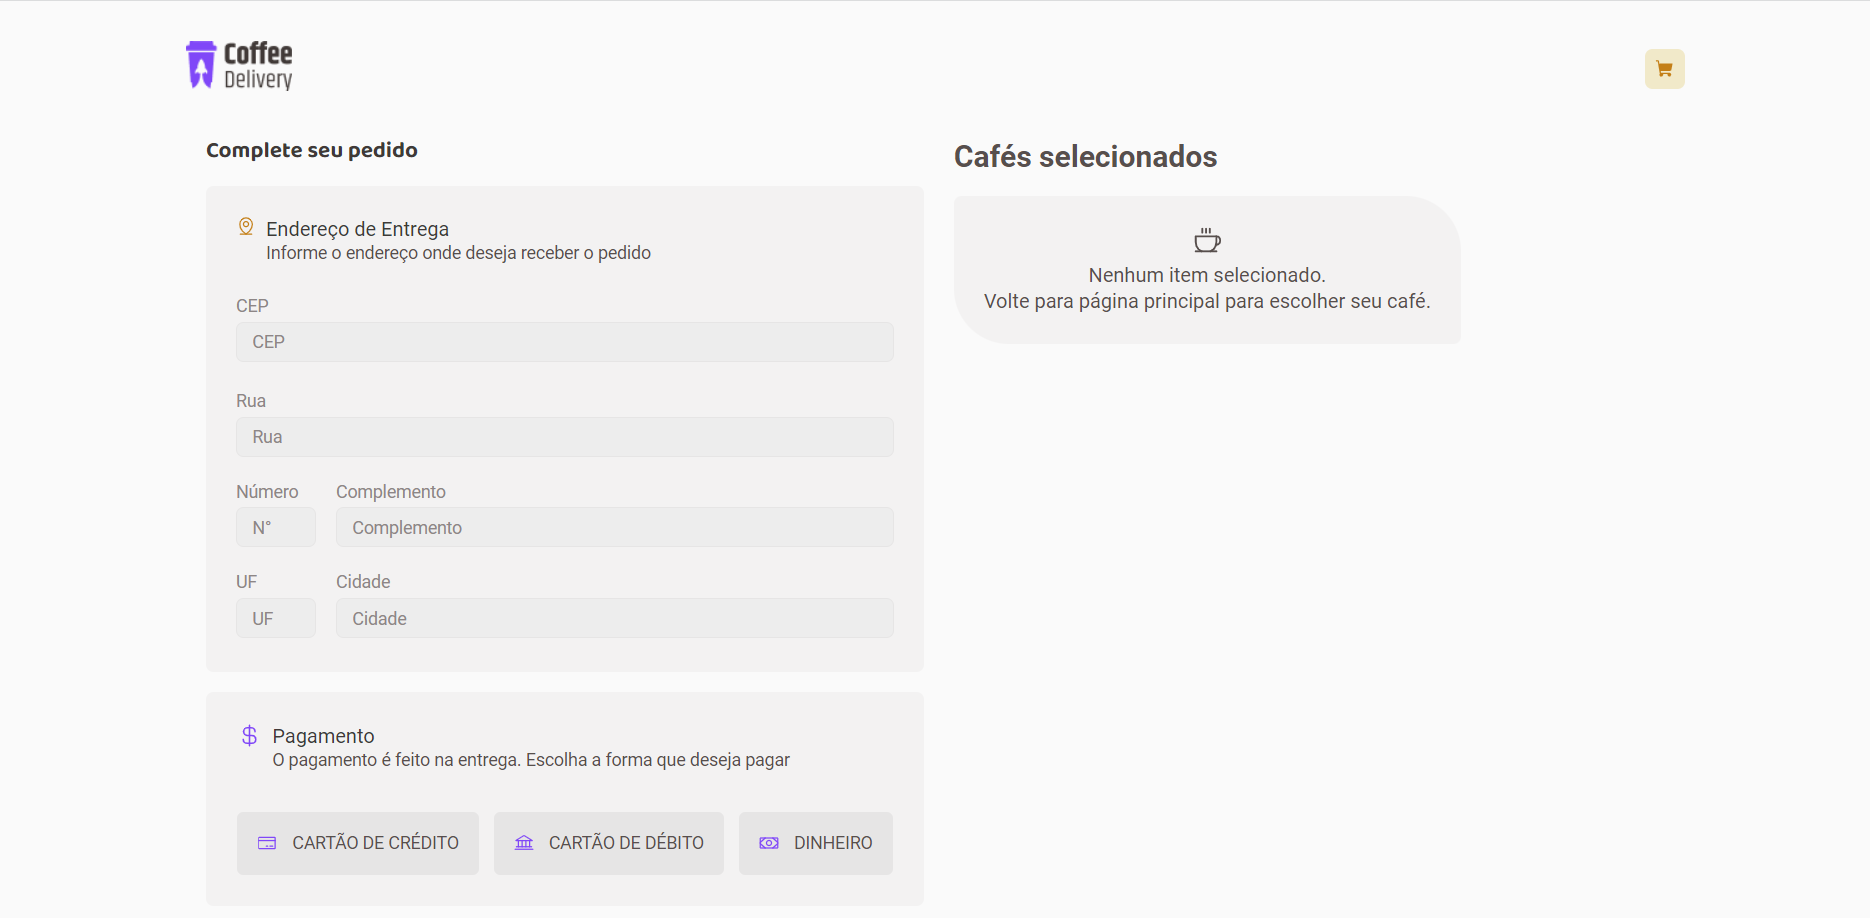
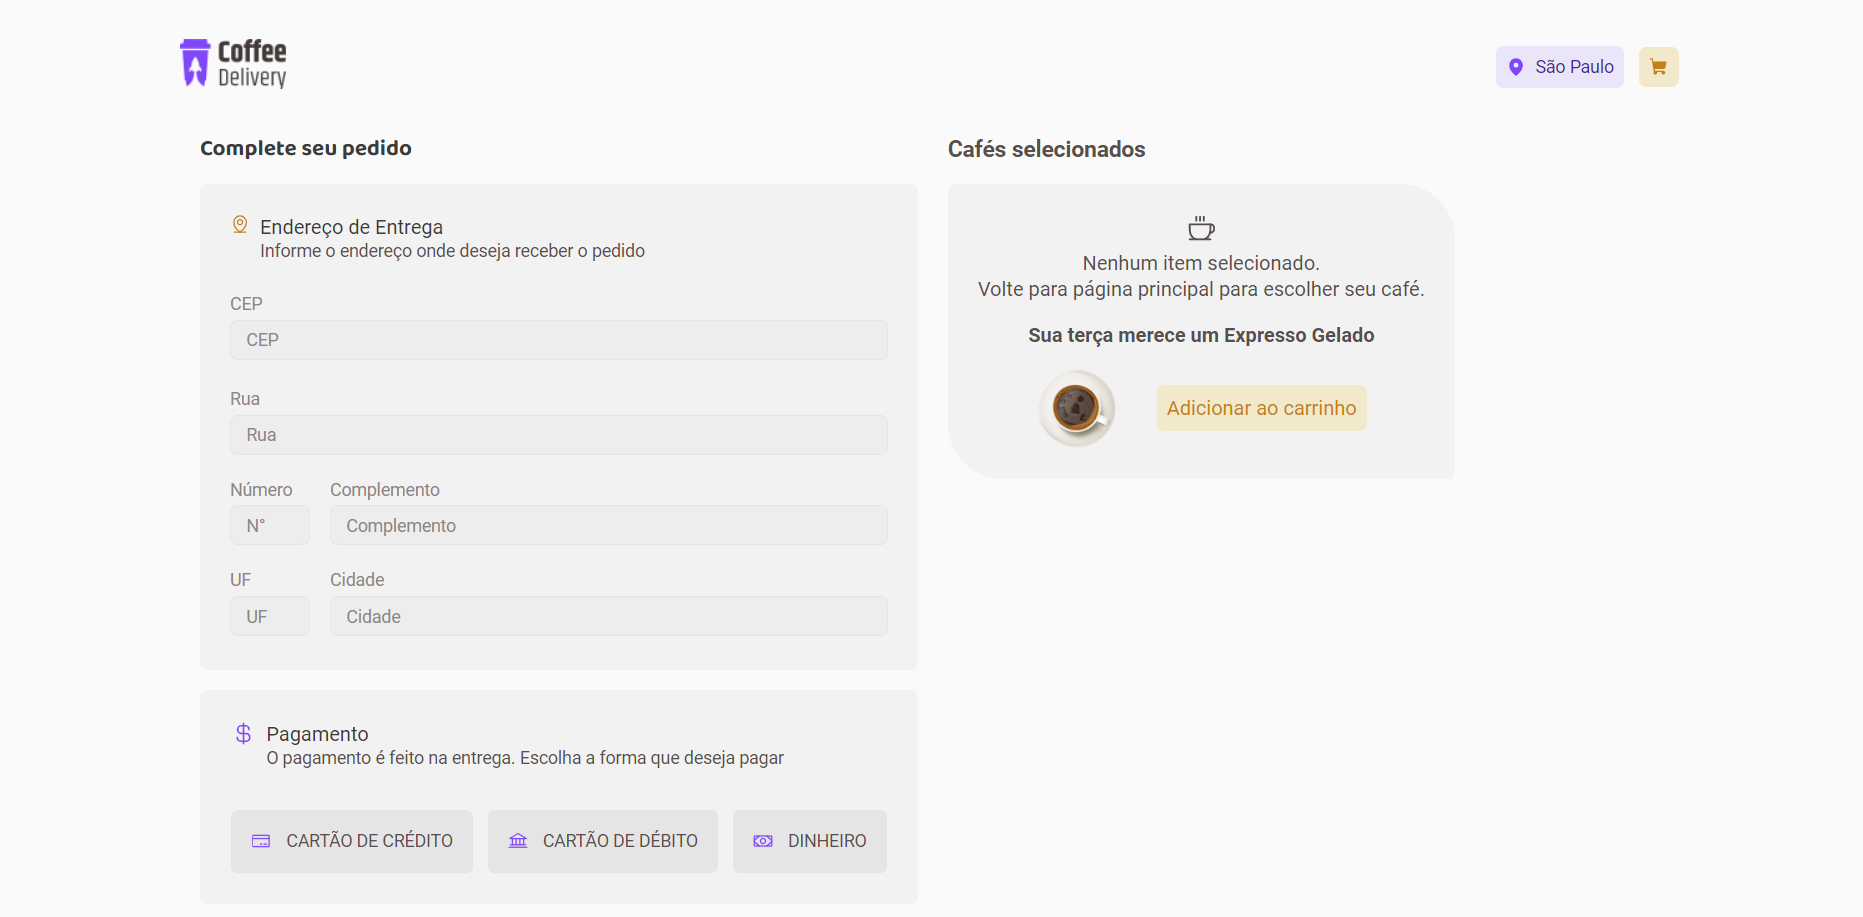
readme

diff --git a/src/components/Header/index.tsx b/src/components/Header/index.tsx
@@ -1,32 +1,42 @@
 import { CartIcon, CartNav, CartNavContainer, HeaderContainer, IconsContainer, LocationContainer, MapIcon, OrderAmountContainer } from './style'
 
 import Logo from '../../assets/logo.png'
+import HalloweenLogo from '../../assets/logo-halloween.png'
 import { NavLink } from 'react-router-dom'
-import { useContext } from 'react'
+import { Suspense, useContext } from 'react'
 import { CoffeeOrderContext } from '../../context/CoffeeOrderContext';
 
 import croct from '@croct/plug';
-import { useEvaluation } from '@croct/plug-react';
+import { Personalization, useEvaluation } from '@croct/plug-react';
 
-croct.plug({appId: '00000000-0000-0000-0000-000000000000'});
+croct.plug({ appId: '00000000-0000-0000-0000-000000000000' });
 
 interface HeaderProps {
     hiddenCart?: boolean;
 }
 
 export function Header({ hiddenCart }: HeaderProps) {
-    const location = useEvaluation<string>("location's city");
-    
+    const location = useEvaluation<string | null>("location's city");
+
     const { orderQuantity, showOrderQuantity } = useContext(CoffeeOrderContext);
- 
-    return(
+
+    return (
         <HeaderContainer>
-            <NavLink to='/' title='Home'>
-                <img src={Logo} />
-            </NavLink>
+            <Suspense fallback="Customizing logo theme">
+                <Personalization expression="today's day is 31 and today's month is 10" fallback={false}>
+                    {(isHalloween: boolean) => isHalloween
+                        ? <NavLink to='/' title='Home'>
+                            <img src={HalloweenLogo} />
+                        </NavLink>
+                        : <NavLink to='/' title='Home'>
+                            <img src={Logo} />
+                        </NavLink>
+                    }
+                </Personalization>
+            </Suspense>
 
             <IconsContainer>
-                {location && 
+                {location &&
                     <LocationContainer>
                         <MapIcon weight='fill' />
                         <span>{location}</span>
@@ -42,7 +52,7 @@ export function Header({ hiddenCart }: HeaderProps) {
                     </CartNav>
                 </CartNavContainer>
             </IconsContainer>
-            
+
         </HeaderContainer>
     )
 }

diff --git a/src/pages/Checkout/componentes/Cart/index.tsx b/src/pages/Checkout/componentes/Cart/index.tsx
@@ -1,13 +1,10 @@
-import { AddRemove, ButtonRemove, CartContainer, CoffeeName, ConfirmOrder, ItemContainer, ItensContainer, NoOrder, Price, Total, TotalContainer, TotalItem } from './style'
+import { AddRemove, ButtonRemove, CartContainer, CoffeeName, ConfirmOrder, DiscountButton, ItemContainer, ItensContainer, NoOrder, Price, Total, TotalContainer, TotalItem } from './style'
 
 import { Trash, Coffee } from 'phosphor-react'
 import { Suspense, useCallback, useContext } from 'react'
 import { CoffeeOrderContext } from '../../../../context/CoffeeOrderContext'
-import croct from '@croct/plug';
 import { EmptyCartPersonalization } from './EmptyCartPersonalization';
 import { Personalization, useCroct } from '@croct/plug-react';
-
-croct.plug({ appId: '00000000-0000-0000-0000-000000000000' });
 
 export function Cart() {
     const { coffeeOrder, coffeeBill, removeCoffeeFromOrder } = useContext(CoffeeOrderContext);
@@ -19,18 +16,22 @@ export function Cart() {
 
     const croct = useCroct();
 
-    const setDate = useCallback(() => {
+    const setDiscount = useCallback(() => {
         croct.evaluate("today's weekday")
             .then(date => {
                 if (date == '1') {
-                    alert('Segunda é dia de frete grátis');
+                    alert('Segunda é dia de frete grátis. Cupom já aplicado no carrinho.');
+                }
+                else {
+                    alert('Nenhum cupom disponível no momento');
                 }
             });
     }, [croct]);
 
-    // if (hasOrders) {
-    //     setDate();
-    // }
+    function handleDiscountButton(e: React.MouseEvent<HTMLButtonElement>) {
+        e.preventDefault();
+        setDiscount();
+    }
 
     return (
         <CartContainer>
@@ -67,6 +68,9 @@ export function Cart() {
                 {hasOrders &&
                     <>
                         <TotalContainer>
+                            <DiscountButton onClick={(e) => handleDiscountButton(e)}>
+                                Verificar cupons de desconto
+                            </DiscountButton>
                             <TotalItem>
                                 <p>Total de itens</p>
                                 <p>R$ {coffeeBill.toFixed(2).toString().replace('.', ',')}</p>

diff --git a/src/App.tsx b/src/App.tsx
@@ -1,4 +1,5 @@
 import { Personalization } from '@croct/plug-react'
+import { Suspense } from 'react'
 import { BrowserRouter } from 'react-router-dom'
 import { ThemeProvider } from 'styled-components'
 import { CoffeeOrderProvider } from './context/CoffeeOrderContext'
@@ -11,31 +12,28 @@ import { halloweenTheme } from './styles/themes/halloweenTheme'
 export function App() {
   return (
     <BrowserRouter>
-      <Personalization expression="today's day is 31 and today's month is 10">
-        {(isHalloween: boolean) => isHalloween
-          ? <ThemeProvider theme={halloweenTheme}>
-            <CoffeeOrderProvider>
-              <DeliveryProvider>
-                <Router />
-              </DeliveryProvider>
-
-            </CoffeeOrderProvider>
-
-            <GlobalStyle />
-          </ThemeProvider>
-          : <ThemeProvider theme={defaultTheme}>
-            <CoffeeOrderProvider>
-              <DeliveryProvider>
-                <Router />
-              </DeliveryProvider>
-
-            </CoffeeOrderProvider>
-
-            <GlobalStyle />
-          </ThemeProvider>
-        }
-
-      </Personalization>
+      <Suspense fallback="Customizing theme">
+        <Personalization expression="today's day is 31 and today's month is 10" fallback={false}>
+          {(isHalloween: boolean) => isHalloween
+            ? <ThemeProvider theme={halloweenTheme}>
+              <CoffeeOrderProvider>
+                <DeliveryProvider>
+                  <Router />
+                </DeliveryProvider>
+              </CoffeeOrderProvider>
+              <GlobalStyle />
+            </ThemeProvider>
+            : <ThemeProvider theme={defaultTheme}>
+              <CoffeeOrderProvider>
+                <DeliveryProvider>
+                  <Router />
+                </DeliveryProvider>
+              </CoffeeOrderProvider>
+              <GlobalStyle />
+            </ThemeProvider>
+          }
+        </Personalization>
+      </Suspense>
     </BrowserRouter>
   )
 }

diff --git a/src/pages/Home/components/Banner/index.tsx b/src/pages/Home/components/Banner/index.tsx
@@ -10,7 +10,7 @@ export function Banner() {
             <div>
                 <Personalization expression="location's city">
                     {(city: string) => city
-                        ? <h1>Está na correia de {city}? Encontre o café perfeito para qualquer hora do dia</h1>
+                        ? <h1>Está na correria de {city}? Encontre o café perfeito para qualquer hora do dia</h1>
                         : <h1>Encontre o café perfeito para qualquer hora do dia</h1>}
                 </Personalization>
                 <p>Com o Coffee Delivery você recebe seu café onde estiver, a qualquer hora</p>

diff --git a/src/pages/Checkout/componentes/Cart/EmptyCartPersonalization/index.tsx b/src/pages/Checkout/componentes/Cart/EmptyCartPersonalization/index.tsx
@@ -1,11 +1,7 @@
-import croct from '@croct/plug';
-import { useCroct, useEvaluation } from '@croct/plug-react';
-import { useCallback, useContext } from 'react';
+import { useEvaluation } from '@croct/plug-react';
+import { useContext } from 'react';
 import { CoffeeOrderContext } from '../../../../../context/CoffeeOrderContext';
 import { AddToCart, ImageContainer, PersonalizationContainer } from './styles';
-
-croct.plug({ appId: '00000000-0000-0000-0000-000000000000' });
-
 
 export function EmptyCartPersonalization() {
     const { coffeeOrderMenu, addCoffee } = useContext(CoffeeOrderContext);

diff --git a/src/pages/Checkout/componentes/Cart/style.ts b/src/pages/Checkout/componentes/Cart/style.ts
@@ -127,3 +127,18 @@ export const ConfirmOrder = styled.button`
 export const NoOrder = styled.div`
     text-align: center;
 `
+export const DiscountButton = styled.button`
+    width: max-content;
+    padding: 0.5rem;
+    cursor: pointer;
+
+    background-color: ${props => props.theme.yellowLight};
+    border-radius: 6px;
+    color: ${props => props.theme.yellow};
+    font-size: 0.875rem;
+
+    &:hover {
+        background-color: ${props => props.theme.yellow};
+        color: ${props => props.theme.yellowLight};
+    }
+`

diff --git a/README.md b/README.md
@@ -17,49 +17,99 @@ A aplicação conta com um total de 3 páginas: listagem de produtos, carrinho d
 
 ## Onde a Croct foi aplicada?
 
-## Construção
+1. Seleção do tema da aplicação baseado na data comemorativa
 
-O Coffe Delivery foi criado com React e TypeScript, sendo a base do projeto criada com o Vite. A navegação entre as páginas (Home, Carrinho e Pedido Finalizado) foi possível através do uso da biblioteca React Router Dom, os formulários foram tratados com as bibliotecas React Hook Form e Zod integradas. A estilização foi feita com Styled-components.
+Para definição do tema da aplicação foi empregado o recurso theme do Styled-Components, sendo possível variar o tema (cores) da aplicação. É um recurso bastante utilizado quando há temas dark e light, por exemplo, no entanto eles são alternados a partir da ação de click do usuário.
+Baseado nessa ideia de alternância de temas, utilizei os recursos de personalização da Croct para fazer a mudança entre os temas da aplicação (default e halloween). O tema halloween será aplicado exclusivamente no dia 31/10, essa troca será feita de forma automática.
+<br> 
+Para que essa ação fosse possível, dentro do arquivo App.tsx, por volta do componente ThemeProvider foi utilizado o componente `Personalization` com a expressão de validação: "today's day is 31 and today's month is 10". Essa expressão retornará um valor booleano, para o caso verdadeiro o tema de halloween será aplicado, caso seja falso o tema padrão será aplicado.
+A mesma ideia pode ser adaptada para outras datas comemorativas como Natal, Dia dos Namorados e Dia das Mães, bastando trocar a expressão de validação e o tema.
 <br>
-Foram implandadas como melhoria da aplicação: responsividade, aplicando o conceito de mobile first, e consumo da API Via CEP.
-Os dados do formulário referentes ao endereço estão sendo preenchidas automaticamente a partir do consumo da API Via CEP, desta forma, basta o usuário informar o CEP da entrega que as informações de setor, rua, bairro e cidade já são preenchidas.
+Cabe destacar que lógica semelhante, com a mesma expressão de validação, foi utilizada no componente Header, mais especificamente na imagem de logo. Quando o tema da aplicação é alternado a imagem de logo deve ser alterada por conta do contraste entre as cores.
+<br>
+Optou-se por utilizar o atributo fallback com o valor booleano falso, para caso a validação falhar a aplicação como um todo não ser comprometida.
+<br>
+Código do componente App:
 
-### Novidades no projeto
+```typescript
+<Suspense fallback="Customizing theme">
+    <Personalization expression="today's day is 31 and today's month is 10" fallback={false}>
+        {(isHalloween: boolean) => isHalloween
+            ? <ThemeProvider theme={halloweenTheme}>
+              <CoffeeOrderProvider>
+                <DeliveryProvider>
+                  <Router />
+                </DeliveryProvider>
+              </CoffeeOrderProvider>
+              <GlobalStyle />
+            </ThemeProvider>
+            : <ThemeProvider theme={defaultTheme}>
+              <CoffeeOrderProvider>
+                <DeliveryProvider>
+                  <Router />
+                </DeliveryProvider>
+              </CoffeeOrderProvider>
+              <GlobalStyle />
+            </ThemeProvider>
+        }
+    </Personalization>
+</Suspense>
+```
+2. Frases personalizadas baseadas na localização do usuário
 
-- Consumo da API Via Cep;
-- Responsividade (mobile-first).
+No banner da página inicial frases customizadas são apresentadas ao usuário baseada na sua localização aproximada. Desta forma, a frase que anteriormente era "Encontre o café perfeito para qualquer hora do dia" passa a ser "Está na correria de São Paulo? Encontre o café perfeito para qualquer hora do dia".
+A alternância entre as frases foi feita com o componente `Personalization` e a expressão de validação "location's city", que retorna uma string com o nome da cidade.
+<br>
+Algo semelhante foi feito no componente Header com a intenção de apresentar a localização do usuário, como mostra a imagem abaixo.
 
-### Principais ferramentas utilizadas
+<img src="GHAssets/header-location.png" width="600">
 
-- Construído com [Vite](https://vitejs.dev/);
-- Estilização com [Styled-components](https://styled-components.com/);
-- [React Router](https://reactrouter.com/en/main) para criação das rotas da aplicação;
-- [React Hook Form](https://react-hook-form.com/) para lidar com formulários;
-- [Zod](https://github.com/colinhacks/zod) para validação de formulários;
-- Dados de endereço do usuário foram obtidos através do consumo da API [Via CEP](https://viacep.com.br/).
+A lógica de apresentação desse item em tela foi um pouco diferente do utilizado no banner. A variável location foi definida a partir do valor da expressão "location's city", utilizando o hook `useEvaluation`. A tipagem dessa variável é baseada na resposta da expressão avaliada pelo hook, neste caso pode ser uma string com o nome da cidade ou null caso não seja possível obter a localização. 
+A apresentação do item de localização da tela só acontece se a variável location for uma string.
+<br>
+No código ficou da seguinte forma:
+
+```typescript
+const location = useEvaluation<string | null>("location's city");
+
+(...)
+
+{location &&
+    <LocationContainer>
+        <MapIcon weight='fill' />
+        <span>{location}</span>
+    </LocationContainer>
+}
+```
+3. Sugestões de cafés baseado no dia da semana caso o carrinho esteja vazio
+
+Caso o usuário acesse o carrinho de compras sem nenhum café selecionado, sugestões serão apresentadas baseado no dia da semana. 
+Para realizar esse tipo de personalização optei por criar o componente React `EmptyCartPersonalization` e utilizar o hook `usePersonalization`. A expressão avaliada foi "today´s weekday", sendo a tipagem de retorno uma string, neste caso números entre 0 e 6, onde 0 é referente a domingo, 1 segunda e assim por diante. O retorno desse componente são as sugestões de cafés, diferentes para cada dia da semana.
+<br>
+O componente `EmptyCartPersonalization` foi utilizado dentro do componente `Cart` e envelopado pelo `Suspense` do React.
+<br>
+Destaco que para este caso a utilização do componente `Slot` teria maiores vantagens, deixando o código menos verboso já que para a solução adotada foi necessário escrever um código para cada dia da semana. O `Slot` não foi utilizado pois é necessário a configuração de um id específico para essa funcionalidade, o app ID fornecido possui o id configurado para apresentar diferentes expressões baseado na persona do usuário, não cabendo para a aplicação construída.
+
+4. Alert indicando se há cupons de desconto no dia
+
+Na finalização do pedido o usuário pode verificar a existência de cupons de desconto a partir do clique em um botão. Ao clicar no botão em questão uma função será disparada, essa função irá avaliar qual o dia da semana e retornar um alert se há ou não descontos. 
+<br>
+Tal função foi criada com o apoio do useCallback do React e o hook useCroct, que dá acesso as funções da lib de JS. 
 
 ## Layout da aplicação
 
 <img src="GHAssets/home.png" width="600">
 <img src="GHAssets/cart-blank.png" width="600">
 <img src="GHAssets/cart-fill.png" width="600">
+<img src="GHAssets/alert.png" width="600">
 <img src="GHAssets/success.png" width="600">
+<img src="GHAssets/halloween-theme.png" width="600">
 
-## Deploy da aplicação
+## Executar a aplicação
 
-"Em breve"
-<br>
-Caso prefira abrir a aplicação no localhost basta digitar o comando `npm run dev`
-
-## Vídeo da aplicação
-
-[Coffe Delivery](https://www.loom.com/share/8af0eda9dc9a425e8407fc2f2e9712e7)
+A aplicação pode ser executada em localhost a partir do comando `npm run dev`
 
 ## Dados complementares
 
 - Autor: [Yasmin](https://www.linkedin.com/in/yasmin-goncalves/)
-
-
-## About
-
-Coffee Delivery is a coffee sales e-commerce, developed for the challenge of the selection process for Customer Service Engineer at Croct.
+- Challenge by Croct.
